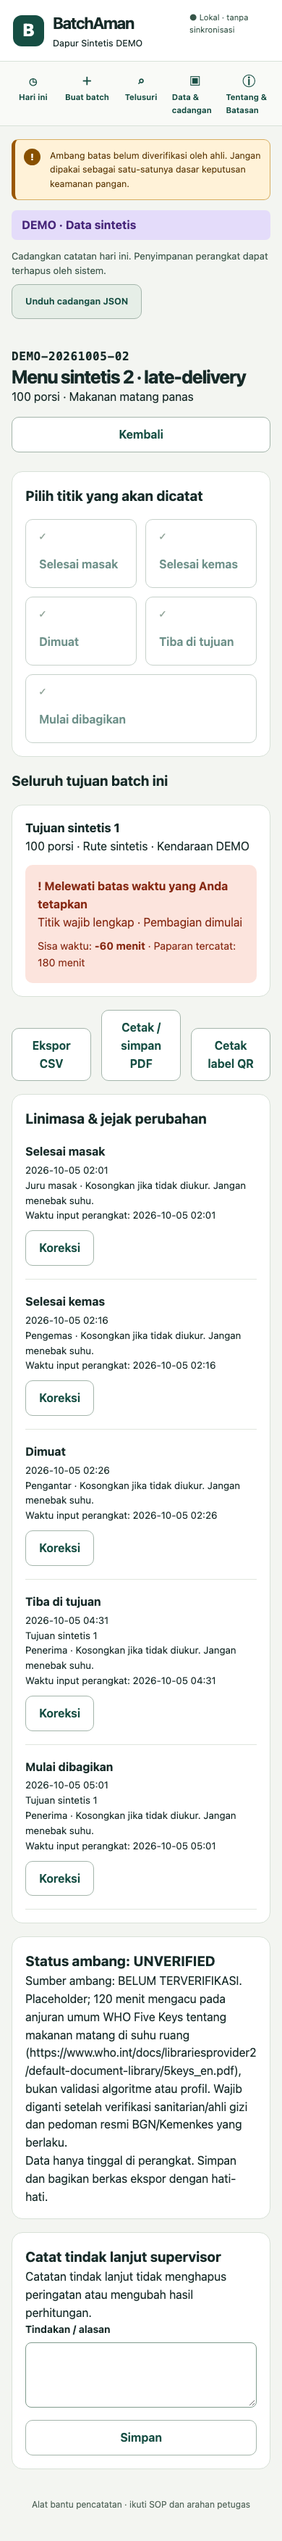
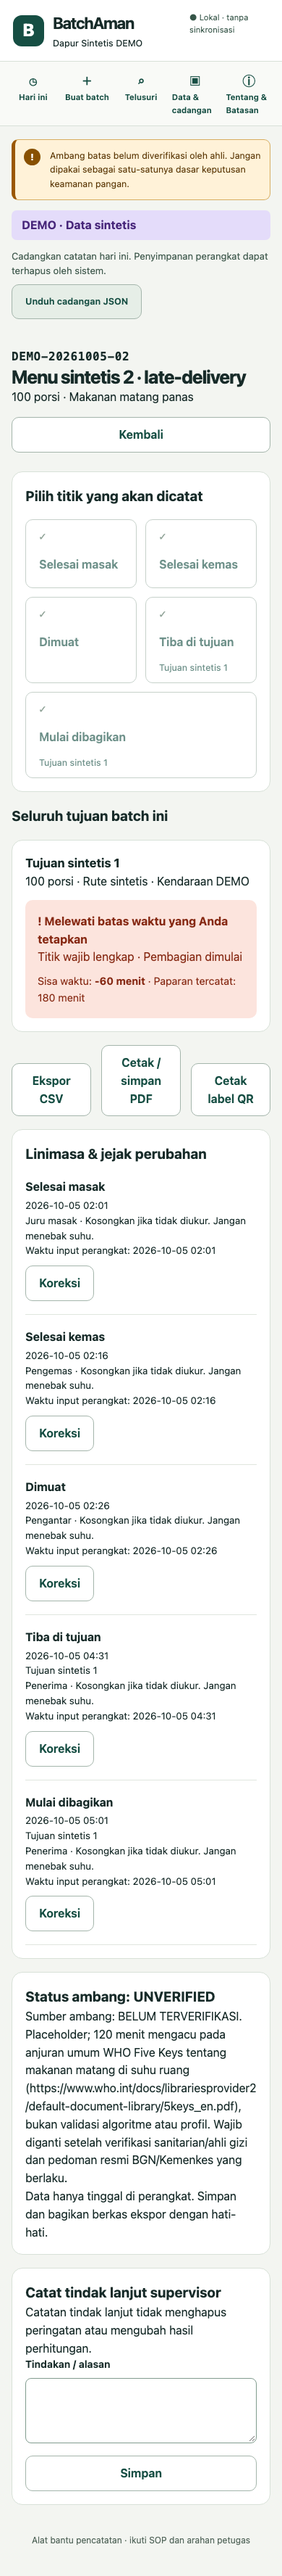
fix(web): preserve two-tap recording for every destination

Changed region(s): [[0.0308, 0.0, 0.9231, 0.9641], [0.4923, 0.5909, 0.5538, 0.622], [0.8, 0.5598, 0.8308, 0.5909]]

diff --git a/apps/web/src/App.tsx b/apps/web/src/App.tsx
@@ -751,29 +751,32 @@ export default function App() {
                   </div>
                   <section className="panel no-print">
                     <h2>{t.choosePoint}</h2>
-                    {batchDrops.length > 1 && (
-                      <Field label={t.chooseDrop}>
-                        <select value={dropId} onChange={(e) => setDropId(e.target.value)}>
-                          {batchDrops.map((d) => (
-                            <option key={d.id} value={d.id}>
-                              {d.recipientLabel}
-                            </option>
-                          ))}
-                        </select>
-                      </Field>
-                    )}
                     <div className="point-grid">
-                      {EVENT_TYPES.map((type, i) => {
+                      {[
+                        ...EVENT_TYPES.slice(0, 3).map((type) => ({ type, drop: undefined })),
+                        ...batchDrops.flatMap((drop) =>
+                          (['ARRIVED', 'SERVE_START'] as const).map((type) => ({ type, drop })),
+                        ),
+                      ].map(({ type, drop }) => {
                         const recorded = currentEvents.some(
-                          (e) =>
-                            e.batchId === batch.id &&
-                            e.type === type &&
-                            (e.dropId === undefined || e.dropId === dropId),
+                          (e) => e.batchId === batch.id && e.type === type && e.dropId === drop?.id,
                         );
                         return (
-                          <button key={type} disabled={recorded} onClick={() => selectPoint(type)}>
-                            <span>{recorded ? '✓' : String(i + 1).padStart(2, '0')}</span>
+                          <button
+                            key={type + (drop?.id ?? '')}
+                            disabled={recorded}
+                            onClick={() => {
+                              if (drop) setDropId(drop.id);
+                              selectPoint(type);
+                            }}
+                          >
+                            <span>
+                              {recorded
+                                ? '✓'
+                                : String(EVENT_TYPES.indexOf(type) + 1).padStart(2, '0')}
+                            </span>
                             {t.eventNames[type]}
+                            {drop && <small>{drop.recipientLabel}</small>}
                           </button>
                         );
                       })}

diff --git a/apps/web/e2e/app.spec.ts b/apps/web/e2e/app.spec.ts
@@ -20,14 +20,16 @@ async function create(page: Page, multi = false) {
   await page.getByRole('button', { name: 'Buat batch', exact: true }).last().click();
   await expect(page.getByRole('heading', { name: 'Menu Sintetis', exact: true })).toBeVisible();
 }
-async function point(page: Page, name: string) {
-  await page.getByRole('button', { name: new RegExp(name) }).click();
+async function point(page: Page, name: string, destination = 'Tujuan Sintetis A') {
+  const label = /Tiba di tujuan|Mulai dibagikan/.test(name) ? name + '.*' + destination : name;
+  await page.getByRole('button', { name: new RegExp(label) }).click();
   await page.getByRole('button', { name: 'Konfirmasi titik', exact: true }).click();
   await expect(page.getByText('✓ Titik tercatat', { exact: true })).toBeVisible();
 }
 test('AC-01–05,10,11,13: full multi-drop journey, corrections, trace and label', async ({
   page,
 }) => {
+  await page.clock.setFixedTime(new Date('2026-10-05T00:00:00Z'));
   await onboard(page);
   await create(page, true);
   for (const name of [
@@ -38,9 +40,8 @@ test('AC-01–05,10,11,13: full multi-drop journey, corrections, trace and label
     'Mulai dibagikan',
   ])
     await point(page, name);
-  await page.getByLabel('Tujuan aktif').selectOption({ label: 'Tujuan Sintetis B' });
-  await point(page, 'Tiba di tujuan');
-  await point(page, 'Mulai dibagikan');
+  await point(page, 'Tiba di tujuan', 'Tujuan Sintetis B');
+  await point(page, 'Mulai dibagikan', 'Tujuan Sintetis B');
   await expect(page.getByText('Titik wajib lengkap · Pembagian dimulai')).toHaveCount(2);
   await page.getByRole('button', { name: 'Koreksi', exact: true }).first().click();
   await page.getByLabel('Waktu kejadian', { exact: true }).fill('2026-10-04T02:00');
@@ -147,9 +148,8 @@ test('AC-07,08,15: complete offline flow, reload, backup/restore and CSV metrics
     'Mulai dibagikan',
   ])
     await point(page, name);
-  await page.getByLabel('Tujuan aktif').selectOption({ label: 'Tujuan Sintetis B' });
-  await point(page, 'Tiba di tujuan');
-  await point(page, 'Mulai dibagikan');
+  await point(page, 'Tiba di tujuan', 'Tujuan Sintetis B');
+  await point(page, 'Mulai dibagikan', 'Tujuan Sintetis B');
   await page.reload();
   await page.getByText('Menu Sintetis', { exact: true }).click();
   await expect(page.locator('.timeline li')).toHaveCount(7);

diff --git a/apps/web/src/ui.test.tsx b/apps/web/src/ui.test.tsx
@@ -65,3 +65,33 @@ test('AC-08 onboarding requests persistent storage and shows daily backup remind
   await waitFor(() => expect(persist).toHaveBeenCalledOnce());
   expect(screen.getByText(t.backupReminder)).toBeTruthy();
 });
+test('AC-01 second destination also takes only choose-point and confirm taps', async () => {
+  vi.stubGlobal('scrollTo', vi.fn());
+  await setup({
+    id: 'k',
+    name: 'Dapur Sintetis',
+    code: 'SYN',
+    timezone: 'Asia/Jakarta',
+    thresholdProfileId: 'default',
+  });
+  await createBatch(
+    {
+      menuName: 'Menu Sintetis',
+      portions: 2,
+      foodProfile: 'COOKED_HOT',
+      drops: [
+        { recipientLabel: 'Tujuan A', portions: 1 },
+        { recipientLabel: 'Tujuan B', portions: 1 },
+      ],
+    },
+    new Date().toISOString(),
+  );
+  render(<App />);
+  fireEvent.click(await screen.findByText('Menu Sintetis'));
+  fireEvent.click(screen.getByRole('button', { name: /Tiba di tujuan.*Tujuan B/ }));
+  fireEvent.click(screen.getByRole('button', { name: t.confirm }));
+  await screen.findByText(t.success);
+  const v = project(await readState());
+  expect(v.events).toHaveLength(1);
+  expect(v.events[0]!.dropId).toBe(v.drops[1]!.id);
+});

diff --git a/docs/DECISIONS.md b/docs/DECISIONS.md
@@ -18,3 +18,4 @@
 - D016: Agregat UNKNOWN diprioritaskan di atas OK, tetapi tetap di bawah PERHATIAN/MELEWATI_BATAS. Tujuan yang belum dapat dihitung tidak boleh tampak telah terjawab oleh tujuan lain; kelengkapan tetap terpisah.
 - D017: CSV harian menyertakan metrik pada baris event agar skrip pilot cukup menerima dua berkas (ekspor aplikasi dan checklist kertas). Entri dibatalkan dikecualikan dari metrik, koreksi tetap dihitung, lag negatif tidak memperoleh kredit real-time; pembanding hilang dilaporkan eksplisit.
 - D018: Demo Pages memakai database terpisah dan label DEMO permanen. Seed sintetis tidak menggantikan data operasional dan tidak ada data dapur nyata di bundle/repo.
+- D019: Titik penerima ditampilkan langsung per tujuan pada layar catat; tidak memerlukan dropdown tujuan terpisah. Dengan begitu tujuan kedua dan seterusnya juga memenuhi dua ketukan (pilih titik+tujuan, konfirmasi). Tes komponen memeriksa ini secara eksplisit.
